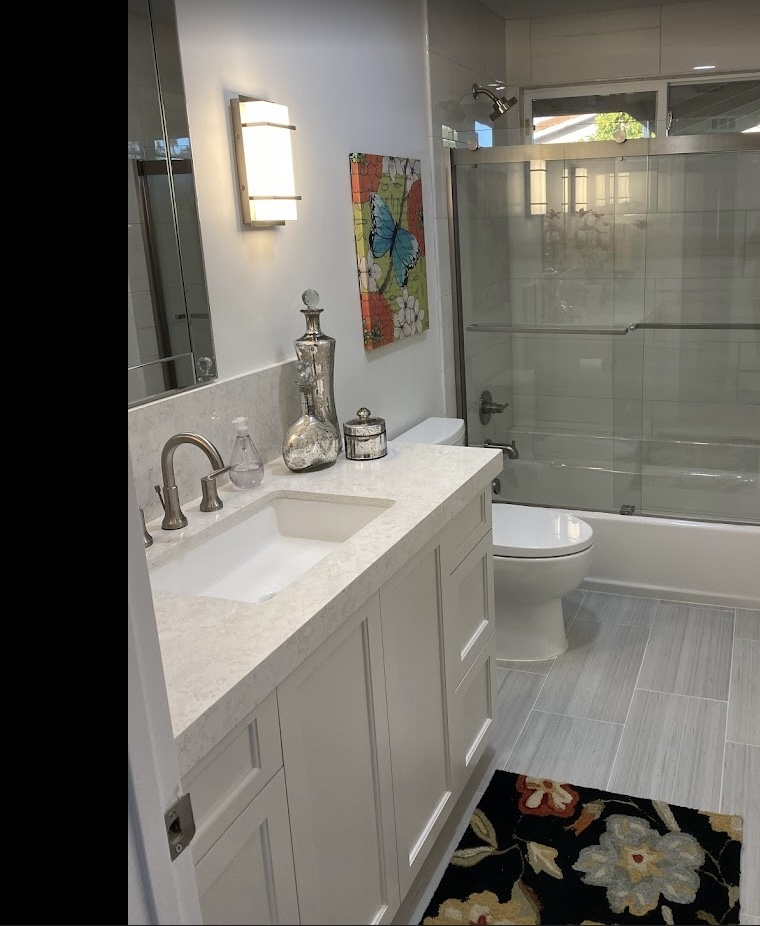
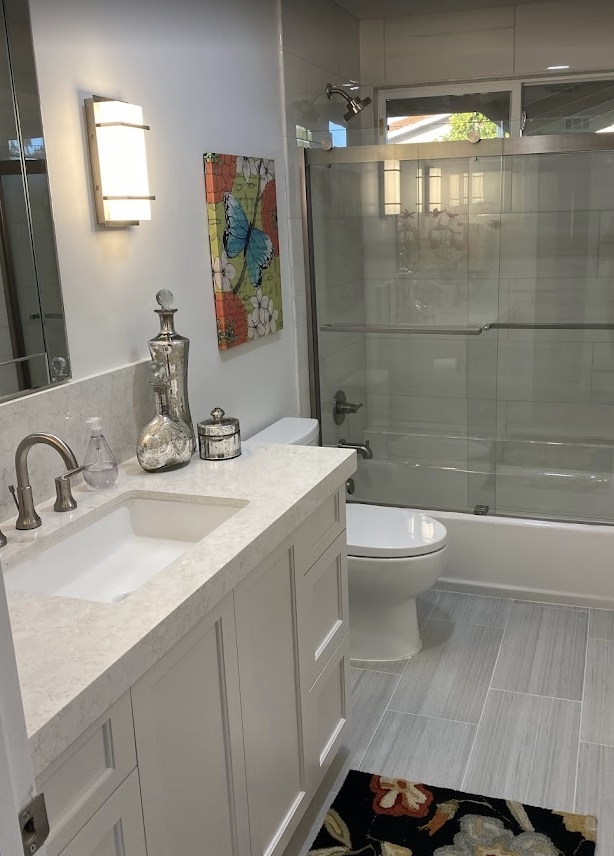
Initial

diff --git a/style.css b/style.css
@@ -16,7 +16,6 @@ body {
 /* ===================
    HEADER + NAV
 =================== */
-/* Header (logo only, scrolls away) */
 header {
   background: rgba(255, 255, 255, 0.082);
   text-align: center;
@@ -24,7 +23,7 @@ header {
 }
 
 .logo-container img {
-  width: 150px;
+  width: 100px;
   display: block;
   margin: 10px auto;
 }
@@ -55,35 +54,6 @@ nav a {
 nav a:hover {
   color: #cbbf9d;
 }
-
-/* Hamburger (hidden by default) */
-.menu-toggle {
-  display: none;
-  font-size: 1.8rem;
-  cursor: pointer;
-  padding: 0 15px;
-}
-
-/* Responsive for tablets & phones */
-@media (max-width: 768px) {
-  .menu-toggle {
-    display: block;
-    text-align: center;
-  }
-
-  nav ul {
-    flex-direction: column;
-    align-items: center;
-    gap: 1rem;
-    max-height: 0;
-    overflow: hidden;
-  }
-
-  nav ul.show {
-    max-height: 500px; /* expand when toggled */
-  }
-}
-
 
 /* ===================
    HOME SECTION
@@ -185,8 +155,6 @@ nav a:hover {
   aspect-ratio: 16 / 9;   /* try 4/3 or 1/1 for square */
 }
 
-
-
 /* Animations */
 .row1 {
   animation: scroll-left 100s linear infinite;
@@ -280,7 +248,7 @@ nav a:hover {
 .service-list {
   display: grid;
   grid-template-columns: repeat(auto-fit, minmax(220px, 1fr));
-  gap: 18px 50px; /* more spacing for balance */
+  gap: 5px 50px; /* more spacing for balance */
   list-style: none;
   padding: 0;
   margin: 0 auto;
@@ -398,7 +366,7 @@ nav a:hover {
   content: "";
   position: absolute;
   inset: 0;
-  background: rgba(0, 0, 0, 0.7);
+  background: rgba(43, 37, 27, 0.75);
   z-index: 0;
 }
 
@@ -600,59 +568,4 @@ footer {
 
 footer p {
   margin: 0 0;
-}
-
-/* Tablets */
-@media (max-width: 992px) {
-  .home-content h2 {
-    font-size: 2.2rem;
-  }
-  .home-buttons {
-    flex-direction: column;
-    gap: 10px;
-  }
-  .service-card img {
-    height: 140px;
-  }
-  .work-gallery > div:nth-child(3n),
-  .work-gallery > div:nth-child(7n) {
-    height: 320px;
-  }
-}
-
-/* Smartphones */
-@media (max-width: 600px) {
-  nav ul {
-    flex-direction: column;
-    gap: 1rem;
-  }
-
-  .home-content h2 {
-    font-size: 1.8rem;
-    text-align: center;
-  }
-
-  .home-buttons {
-    flex-direction: column;
-    align-items: left;
-  }
-
-  .service-list {
-    grid-template-columns: 1fr; /* single column */
-    gap: 10px;
-  }
-
-  .work-gallery {
-    grid-template-columns: 1fr; /* 1 column only */
-  }
-
-  .work-gallery > div {
-    height: 220px !important; /* unify sizes for mobile */
-    grid-column: auto !important;
-    grid-row: auto !important;
-  }
-
-  .about-text h2 {
-    font-size: 2rem;
-  }
 }

diff --git a/index.html b/index.html
@@ -21,7 +21,6 @@
   </header>
 
 <nav>
-  <div class="menu-toggle" id="menu-toggle">☰</div>
   <ul id="nav-list">
     <li><a href="#home">Home</a></li>
     <li><a href="#services">Services</a></li>
